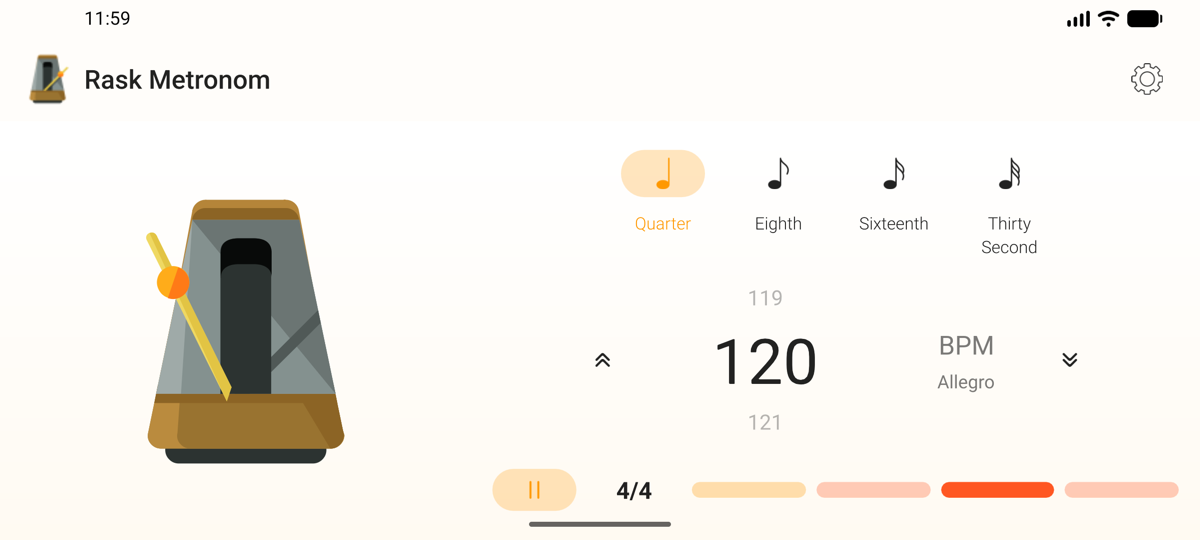
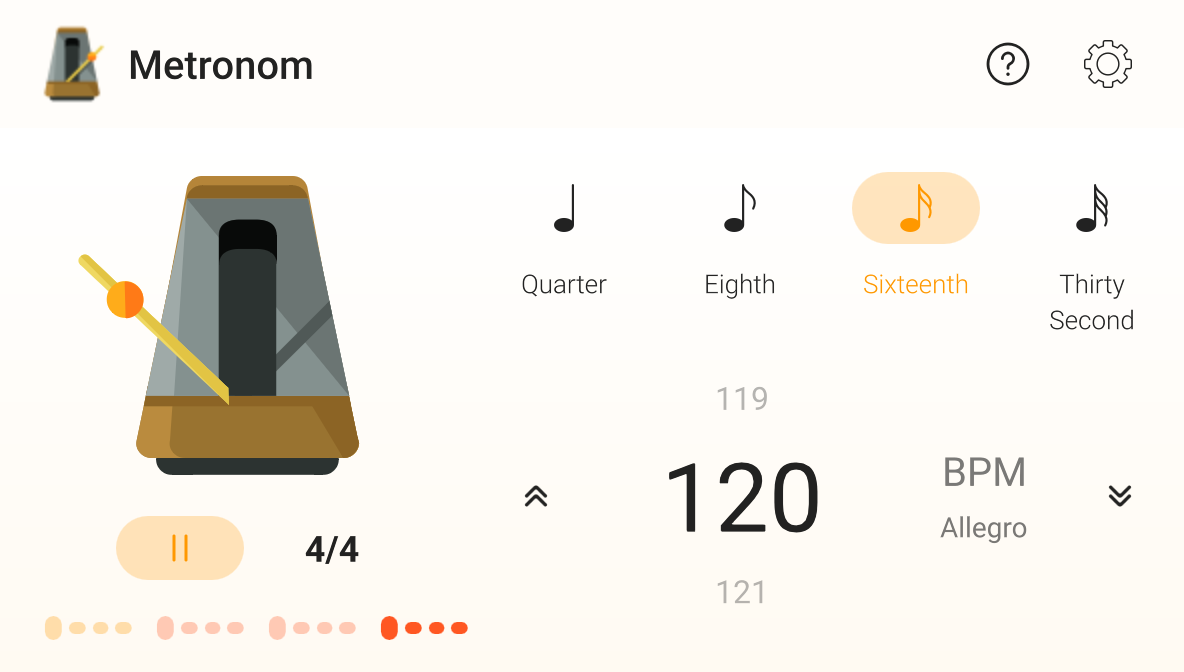
Document the Android app and add a privacy policy
New Android screenshots and a playing GIF in the README, an Android section
on the site's Features page, and a privacy policy page in every language,
linked from the footer, for the Play Store listing.

diff --git a/site/_includes/pages/features.html b/site/_includes/pages/features.html
@@ -1,7 +1,7 @@
 {%- include i18n.html -%}
 {%- assign f = t.features -%}
 {%- comment -%} section id, menu key, icon, glyph (a site icon, else a note icon) {%- endcomment -%}
-{%- assign sections = "tempo:tempo:gauge:1,time-signature:meter:meter:1,note-values:notes:eighth-note:0,beat-bar:bar:bars:1,sound:sound:speaker:1,timing:timing:wave:1,auto-increment:rise:rise:1,keyboard:keyboard:keyboard:1,appearance:appearance:appearance:1,settings:settings:gear:1,platforms:platforms:devices:1,updates:updates:update:1" | split: "," -%}
+{%- assign sections = "tempo:tempo:gauge:1,time-signature:meter:meter:1,note-values:notes:eighth-note:0,beat-bar:bar:bars:1,sound:sound:speaker:1,timing:timing:wave:1,auto-increment:rise:rise:1,keyboard:keyboard:keyboard:1,appearance:appearance:appearance:1,settings:settings:gear:1,android:android:sixteenth-note:0,platforms:platforms:devices:1,updates:updates:update:1" | split: "," -%}
 <div class="page container">
   <header class="page-header">
     <p class="eyebrow">{{ f.eyebrow }}</p>
@@ -77,6 +77,11 @@
           {% include shot.html name="settings-dark.jpg" w=920 h=1544 window=true alt=f.settings_alt_dark %}
           {% include shot.html name="settings-light.jpg" w=920 h=1544 window=true alt=f.settings_alt_light %}
         </div>
+        {%- when "android" %}
+        <p>{{ f.android_text }}</p>
+        <ul>{% for li in f.android_list %}<li>{{ li }}</li>{% endfor %}</ul>
+        {% include shot.html name="android-notification.png" w=680 h=576 alt=f.android_alt_notification %}
+        {% include shot.html name="android-playing.gif" w=460 h=984 window=true alt=f.android_alt_playing %}
         {%- when "platforms" %}
         {% include rows.html rows=f.platforms_rows %}
         <p>{% include tr.html s=f.platforms_text %}</p>

diff --git a/site/_includes/pages/privacy.html b/site/_includes/pages/privacy.html
@@ -1,0 +1,18 @@
+{%- include i18n.html -%}
+{%- assign p = t.privacy -%}
+<article class="page container container-narrow">
+  <header class="page-header">
+    <p class="eyebrow">{{ p.eyebrow }}</p>
+    <h1>{{ p.title }}</h1>
+    <p class="lead">{{ p.lead }}</p>
+    <p class="button-note">{{ p.updated }}</p>
+  </header>
+  <div class="prose glass-card post-body">
+    {%- for section in p.sections %}
+    <h2>{{ section[0] }}</h2>
+    {%- for paragraph in section offset: 1 %}
+    <p>{% include tr.html s=paragraph %}</p>
+    {%- endfor %}
+    {%- endfor %}
+  </div>
+</article>

diff --git a/site/assets/css/site.css b/site/assets/css/site.css
@@ -1151,6 +1151,16 @@ tr:last-child td {
     border-radius: 18px;
 }
 
+/* Phone captures (a notification) stay at about their own size. */
+.feature-section .shot-frame:not(.is-window) {
+    max-width: 520px;
+    margin-inline: auto;
+}
+
+.feature-section .shot-frame + .shot-frame {
+    margin-top: 20px;
+}
+
 .shot-pair {
     display: grid;
     grid-template-columns: repeat(2, minmax(0, 360px));

diff --git a/site/_includes/footer.html b/site/_includes/footer.html
@@ -15,6 +15,7 @@
       <li><a href="{{ base }}download/">{{ t.nav.download }}</a></li>
       <li><a href="{{ site.github_url }}">GitHub</a></li>
       <li><a href="{{ '/news/feed.xml' | relative_url }}">RSS</a></li>
+      <li><a href="{{ base }}privacy/">{{ t.privacy.link }}</a></li>
     </ul>
     <p class="footer-note">{{ t.footer.note }}</p>
   </div>

diff --git a/site/fr/privacy.html b/site/fr/privacy.html
@@ -1,0 +1,9 @@
+---
+layout: default
+lang: fr
+ref: privacy
+permalink: /fr/privacy/
+title: "Politique de confidentialité"
+description: "Metronom ne collecte aucune donnée personnelle : ce que l’app garde sur votre appareil et pourquoi elle demande chaque autorisation Android."
+---
+{% include pages/privacy.html %}

diff --git a/site/it/privacy.html b/site/it/privacy.html
@@ -1,0 +1,9 @@
+---
+layout: default
+lang: it
+ref: privacy
+permalink: /it/privacy/
+title: "Informativa sulla privacy"
+description: "Metronom non raccoglie dati personali: cosa conserva l’app sul tuo dispositivo e perché chiede ogni autorizzazione Android."
+---
+{% include pages/privacy.html %}

diff --git a/site/pt-br/privacy.html b/site/pt-br/privacy.html
@@ -1,0 +1,9 @@
+---
+layout: default
+lang: pt-BR
+ref: privacy
+permalink: /pt-br/privacy/
+title: "Política de Privacidade"
+description: "O Metronom não coleta dados pessoais: o que o app guarda no seu aparelho e por que pede cada permissão no Android."
+---
+{% include pages/privacy.html %}

diff --git a/site/es/privacy.html b/site/es/privacy.html
@@ -1,0 +1,9 @@
+---
+layout: default
+lang: es
+ref: privacy
+permalink: /es/privacy/
+title: "Política de privacidad"
+description: "Metronom no recopila datos personales: qué guarda la app en tu dispositivo y por qué pide cada permiso en Android."
+---
+{% include pages/privacy.html %}

diff --git a/site/privacy.html b/site/privacy.html
@@ -1,0 +1,9 @@
+---
+layout: default
+lang: en
+ref: privacy
+permalink: /privacy/
+title: "Privacy Policy"
+description: "Metronom collects no personal data: what the app keeps on your device and why it asks for each Android permission."
+---
+{% include pages/privacy.html %}

diff --git a/README.md b/README.md
@@ -23,11 +23,21 @@ A cross-platform metronome for desktop (Linux, Windows, macOS) and Android, buil
 <p align="center">
   <img src="docs/screenshots/android-main-light.png" alt="Android: main screen, light theme" width="220" />
   <img src="docs/screenshots/android-main-dark.png" alt="Android: main screen, dark theme" width="220" />
-  <img src="docs/screenshots/android-settings-dark.png" alt="Android: settings, dark theme" width="220" />
+  <img src="docs/images/android-playing.gif" alt="Android: playing in eighth notes" width="220" />
 </p>
 
+On a short screen the metronome sits beside the play button and the beat bar; in landscape the controls move to the right.
+
 <p align="center">
-  <img src="docs/screenshots/android-landscape-light.png" alt="Android: landscape, playing" width="680" />
+  <img src="docs/screenshots/android-compact-light.png" alt="Android: compact layout on a short screen, playing" width="220" />
+  <img src="docs/screenshots/android-landscape-light.png" alt="Android: landscape, playing" width="520" />
+</p>
+
+The metronome keeps playing in the background. Its notification shows the tempo, the time signature and, as its icon, the note value, with Stop and Resume; tapping it returns to the app.
+
+<p align="center">
+  <img src="docs/screenshots/android-notification-playing.png" alt="Android: notification while playing, with Stop" width="340" />
+  <img src="docs/screenshots/android-notification-paused.png" alt="Android: notification while paused, with Resume" width="340" />
 </p>
 
 <p align="center"><sub>More, including the time signature dialog, in <a href="docs/screenshots">docs/screenshots</a>.</sub></p>
@@ -40,6 +50,7 @@ A cross-platform metronome for desktop (Linux, Windows, macOS) and Android, buil
 - Audio output device selection
 - Automatic BPM increment at a configurable interval
 - Screen-lock inhibition while running
+- Android: keeps playing in the background, with a notification (tempo, time signature, note value icon, Stop/Resume)
 - Light / dark / system theme
 - Adaptive layout for portrait and landscape
 - Translations: English (source), Brazilian Portuguese, Spanish, French and Italian

diff --git a/site/README.md b/site/README.md
@@ -6,7 +6,7 @@ on every push to `main` that touches it.
 
 - Every page exists in the app's languages: English at the root and `pt-br/`, `es/`, `fr/`, `it/`
   (`_data/languages.yml`). Each page file (`index.html`, `features.html`, `guide.html` — How to use —,
-  `download.html`, `news.html`) is only front matter (`lang`, `ref`, `permalink`, the translated `title` and
+  `download.html`, `news.html`, `privacy.html` — the privacy policy linked from the Play Store and the footer —) is only front matter (`lang`, `ref`, `permalink`, the translated `title` and
   `description`) and includes its markup from `_includes/pages/`, shared by all languages.
 - The text is in `_data/i18n/<lang>.yml`, one file per language with the same keys; note names and
   settings follow the app's `translations/*.ts`. `%quarter%`, `%play%`, `%base%`… in a string are replaced
@@ -33,6 +33,9 @@ desktop, 40 points of wallpaper around it, so the blur shows. Record at 2× and
 convert a GIF to 460 px wide at 20 fps with one palette for the whole clip
 (`palettegen=stats_mode=full`, `paletteuse=dither=bayer`): that keeps the
 wallpaper from flickering and each GIF under 2 MB.
+
+The `android-*` ones are captures from a phone or the emulator, without the status and navigation
+bars (so no other app's notification shows) and with the app in English.
 
 ## Preview
 
